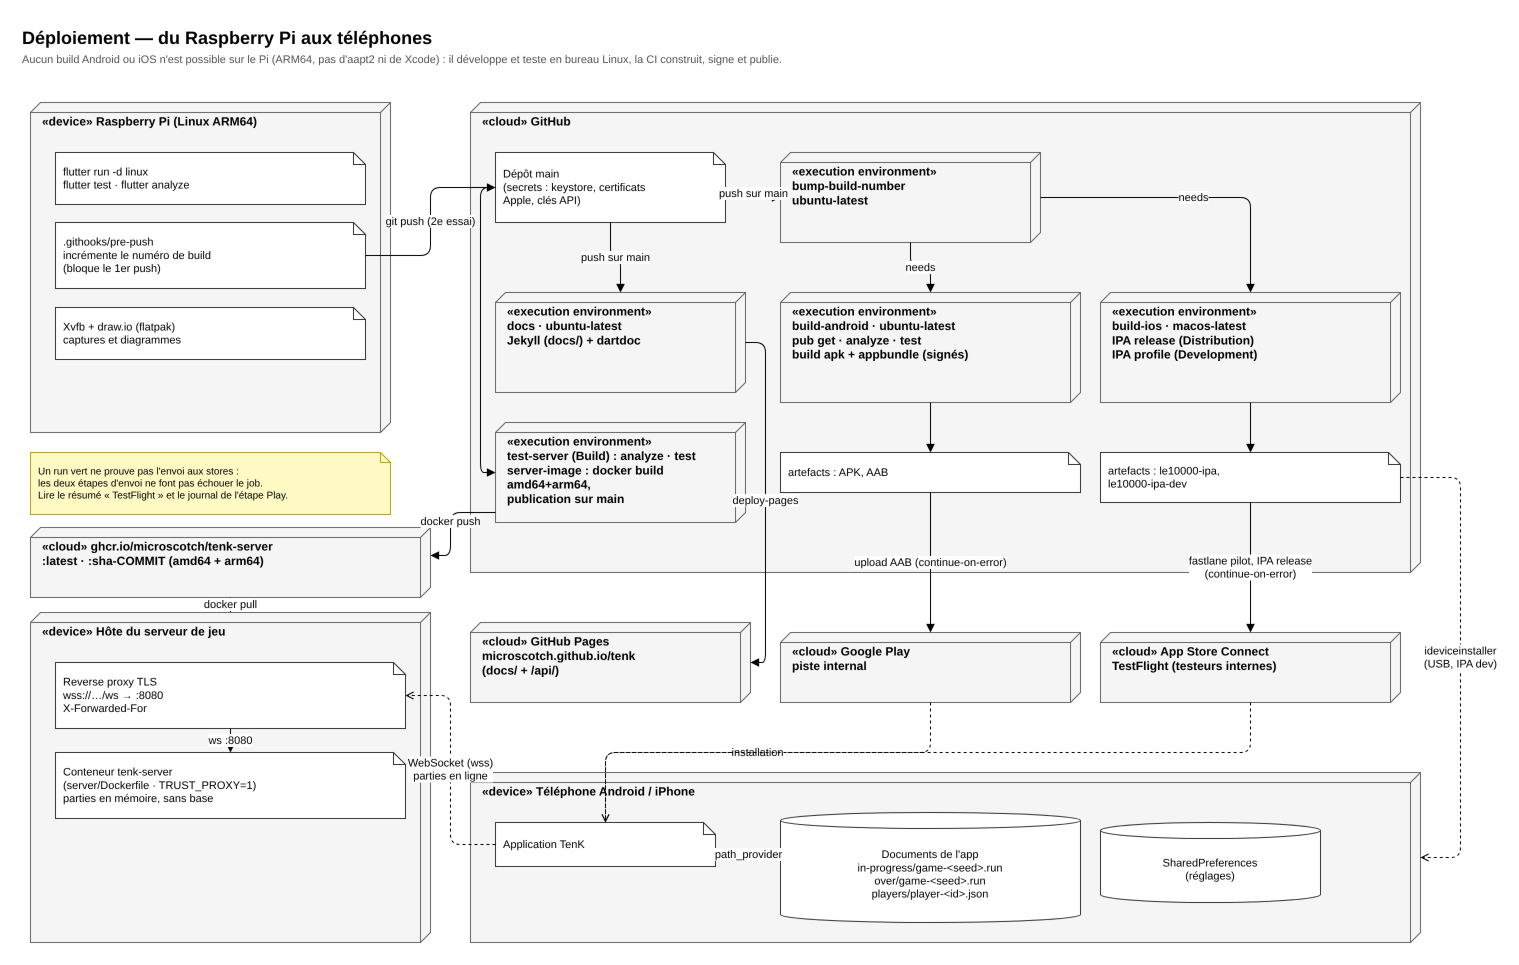
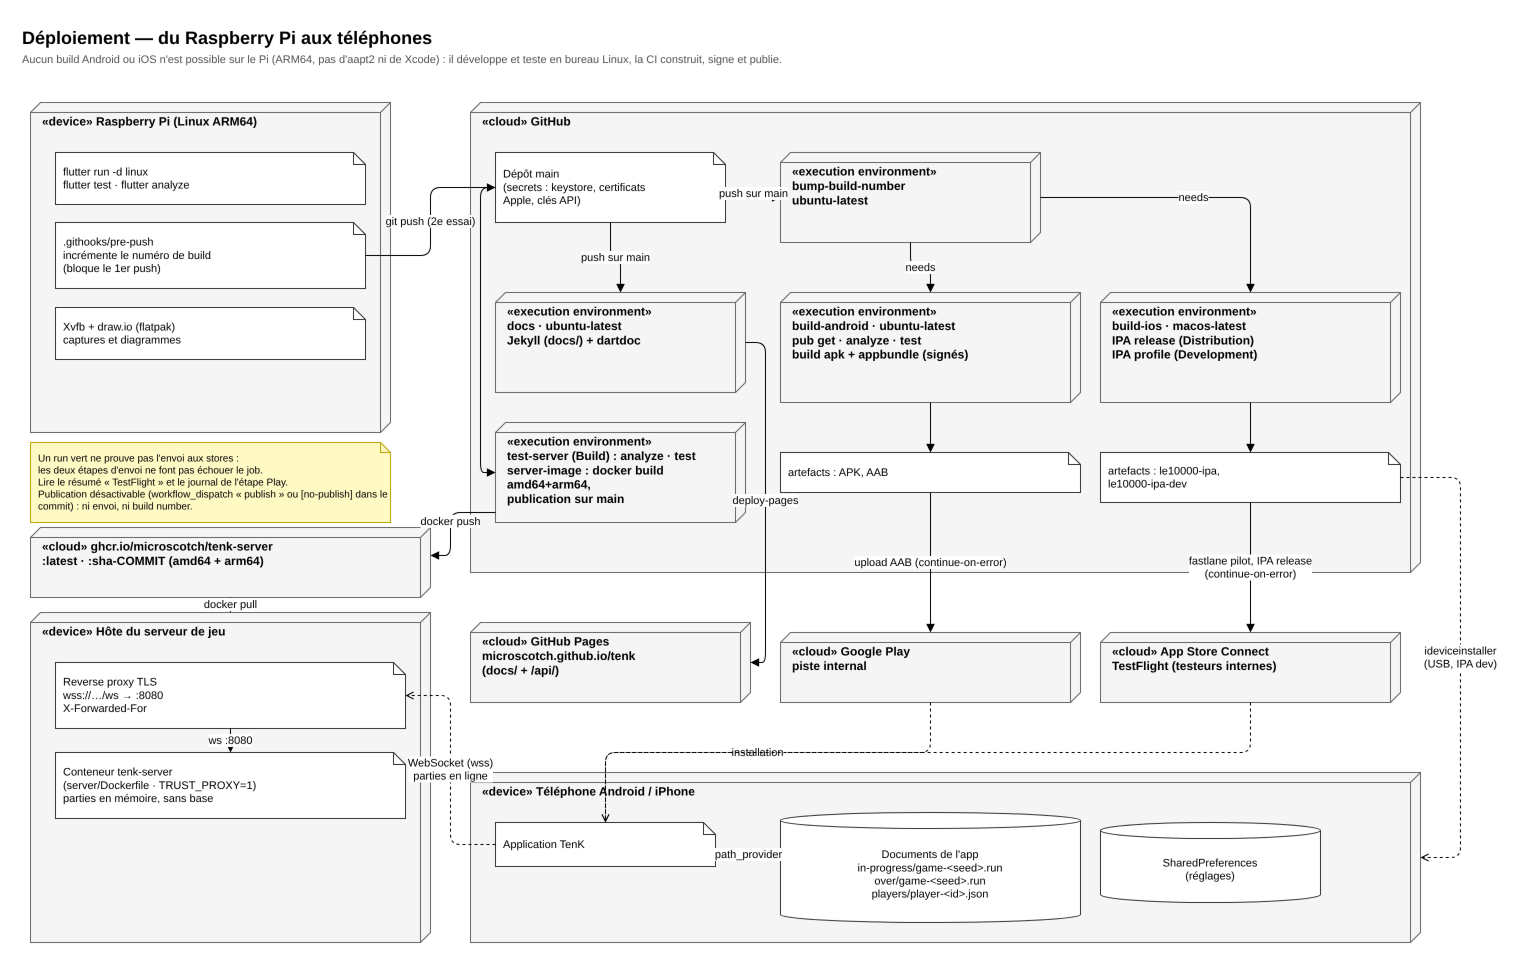
feat: default to the production server, let CI skip store publishing, add the server compose file [skip ci]
- defaultServerUrl is now wss://tenk.microscotch.net/ws; a local server is
  reached with --dart-define=TENK_SERVER_URL.
- CI: a workflow_dispatch 'publish' input, or [no-publish] in a push's tip
  commit, skips the Google Play / TestFlight uploads and the build number
  bump; the pre-push hook honours the same marker.
- server/docker-compose.yml runs the published image on the shared
  'backend' network, with no published port.

Claude-Session: https://claude.ai/code/session_01EJRqsvtpgFKHM7s5P6t82V

Changed region(s): [[0.0, 0.4352, 0.2475, 0.5596]]

diff --git a/lib/state/online_providers.dart b/lib/state/online_providers.dart
@@ -12,10 +12,11 @@ import 'online_transport.dart';
 
 export '../game/online/protocol.dart' show ErrorCode, RoomPhase, SeatInfo;
 
-/// L'adresse du serveur des parties en ligne, fixée à la compilation :
-/// `flutter build ... --dart-define=TENK_SERVER_URL=wss://…/ws`. Toujours
-/// `wss://` en production (le TLS se termine sur le reverse proxy du serveur).
-const String defaultServerUrl = String.fromEnvironment('TENK_SERVER_URL', defaultValue: 'ws://localhost:8080/ws');
+/// L'adresse du serveur des parties en ligne. Celle de production par défaut
+/// (chiffrée : le TLS se termine sur le reverse proxy du serveur) ; pour jouer
+/// contre un serveur local pendant le développement :
+/// `flutter run -d linux --dart-define=TENK_SERVER_URL=ws://localhost:8080/ws`.
+const String defaultServerUrl = String.fromEnvironment('TENK_SERVER_URL', defaultValue: 'wss://tenk.microscotch.net/ws');
 
 /// Une build de release ne parle qu'à un serveur chiffré (`wss://`) : un `ws://`
 /// oublié dans `--dart-define` enverrait pseudo, jeton et coups en clair. En

diff --git a/test/state/online_session_test.dart b/test/state/online_session_test.dart
@@ -74,6 +74,14 @@ void main() {
   }
 
   group('adresse du serveur', () {
+    test('l\'adresse par défaut est celle de production, chiffrée : une release peut s\'en servir', () {
+      final url = Uri.parse(defaultServerUrl);
+      expect(url.scheme, 'wss');
+      expect(url.host, 'tenk.microscotch.net');
+      expect(url.path, '/ws');
+      expect(isAcceptableServerUrl(url, release: true), isTrue);
+    });
+
     test('une release n\'accepte que wss://, le développement accepte aussi ws://', () {
       expect(isAcceptableServerUrl(Uri.parse('wss://jeu.example/ws'), release: true), isTrue);
       expect(isAcceptableServerUrl(Uri.parse('ws://jeu.example/ws'), release: true), isFalse);

diff --git a/CLAUDE.md b/CLAUDE.md
@@ -18,14 +18,14 @@ flutter test test/game/combination_test.dart   # run a single test file
 flutter test --plain-name "un craque affiche"  # run tests matching a name
 flutter run -d linux         # run the app locally (see below — this is the only viable local target)
 (cd server && dart pub get && dart analyze && dart test)   # the online-game server: analysis + tests
-dart run server/bin/server.dart                            # a local server on ws://localhost:8080/ws
+dart run server/bin/server.dart                            # a local server: run the app with --dart-define=TENK_SERVER_URL=ws://localhost:8080/ws
 ```
 
 CI (`.github/workflows/build_apk.yaml`) has four jobs, on every push to `main` (plus
 `pull_request` and `workflow_dispatch`, where `bump-build-number` is skipped):
 - `bump-build-number` (`ubuntu-latest`) — CI-side safety net for the local `.githooks/pre-push` hook
   (see Git hooks below). The other two jobs depend on it and check out the commit it resolves, so
-  both build the same, possibly corrected, tree.
+  both build the same, possibly corrected, tree. Skipped when publishing is disabled (below).
 - `test-server` (`ubuntu-latest`) — `dart analyze` + `dart test` in `server/` (see Online games below); it
   also runs on pull requests, and is independent of the two build jobs.
 - `build-android` (`ubuntu-latest`) — `pub get`, `analyze`, `test`, then `build apk --release` and
@@ -53,6 +53,12 @@ request it builds and smoke-tests the image (`/healthz`) without publishing. Its
 by commit SHA because the job holds a registry-write token. A package published from this public repo
 should be public (check its visibility once in the repo's Packages settings); otherwise the host must
 `docker login ghcr.io`.
+
+**Publishing can be turned off**: the Google Play and TestFlight uploads are then skipped *and* the build
+number isn't bumped (the builds and their artifacts are still produced). Untick `publish` on a manual
+`workflow_dispatch` run, or put `[no-publish]` in the message of a push's tip commit (only the tip is
+looked at, by the workflow and by the pre-push hook alike). Pull requests behave as before. The condition
+is `env.PUBLISH` at the top of the workflow, repeated in `bump-build-number`'s `if:` (no `env` context there).
 
 Both store-upload steps are deliberately `continue-on-error: true`, so **a green run does not mean
 the build reached Google Play or TestFlight** — a failed upload still shows as a green step. The
@@ -95,7 +101,8 @@ it hasn't already increased past what's on the remote — CI attempts a Google P
 a commit into the push already in flight (git resolves which refs to push before invoking
 `pre-push` — verified empirically, not just per docs), so instead it commits the bump locally and
 **blocks that push** (exit 1) with a message asking to run `git push` again; the retry then goes
-through cleanly since the local build number is now ahead of the remote's.
+through cleanly since the local build number is now ahead of the remote's. It does nothing when the tip
+commit's message contains `[no-publish]` (CI won't publish that push, so no build number is consumed).
 
 This hook is tracked in the repo but, like all git hooks, never activates on its own — after a
 fresh clone, run once:
@@ -252,8 +259,10 @@ sweep of expired rooms).
   recorded. Hosting must keep to it: **no access logs** on the reverse proxy that terminates TLS.
 - Run it behind a TLS reverse proxy (`wss://`) with `TRUST_PROXY=1` so `X-Forwarded-For` gives the client
   address. Build the image from the repo root: `docker build -f server/Dockerfile -t tenk-server .` — or pull the
-  one CI publishes (`docker pull ghcr.io/microscotch/tenk-server:latest`). The app
-  reads its address from `--dart-define=TENK_SERVER_URL=wss://…/ws` (`defaultServerUrl`).
+  one CI publishes (`docker pull ghcr.io/microscotch/tenk-server:latest`) — `server/docker-compose.yml` runs
+  that image, publishing no port: the proxy container reaches it over a shared Docker network. The app
+  reaches `wss://tenk.microscotch.net/ws` by default (`defaultServerUrl`; the Apache vhost of that name proxies
+  `/ws` to the container). For a local server: `--dart-define=TENK_SERVER_URL=ws://localhost:8080/ws`.
 - Limits are per connection **and** per address (messages, connections open, connections per minute, room
   creations, failed joins): a new connection must not hand back a fresh burst. A pseudo is trimmed and
   refuses control, zero-width and bidi characters (spoofing another player). A release build only talks to a
